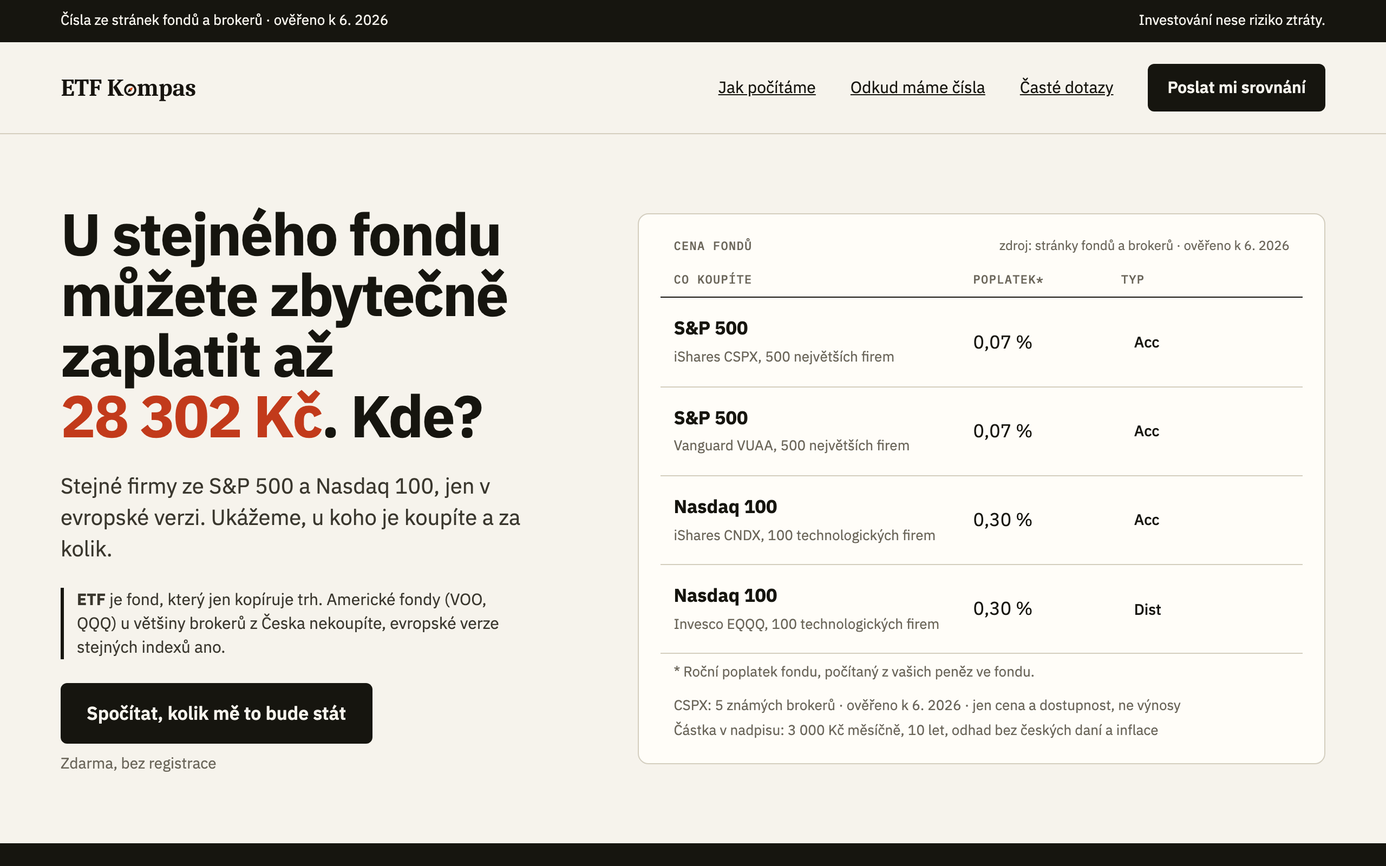
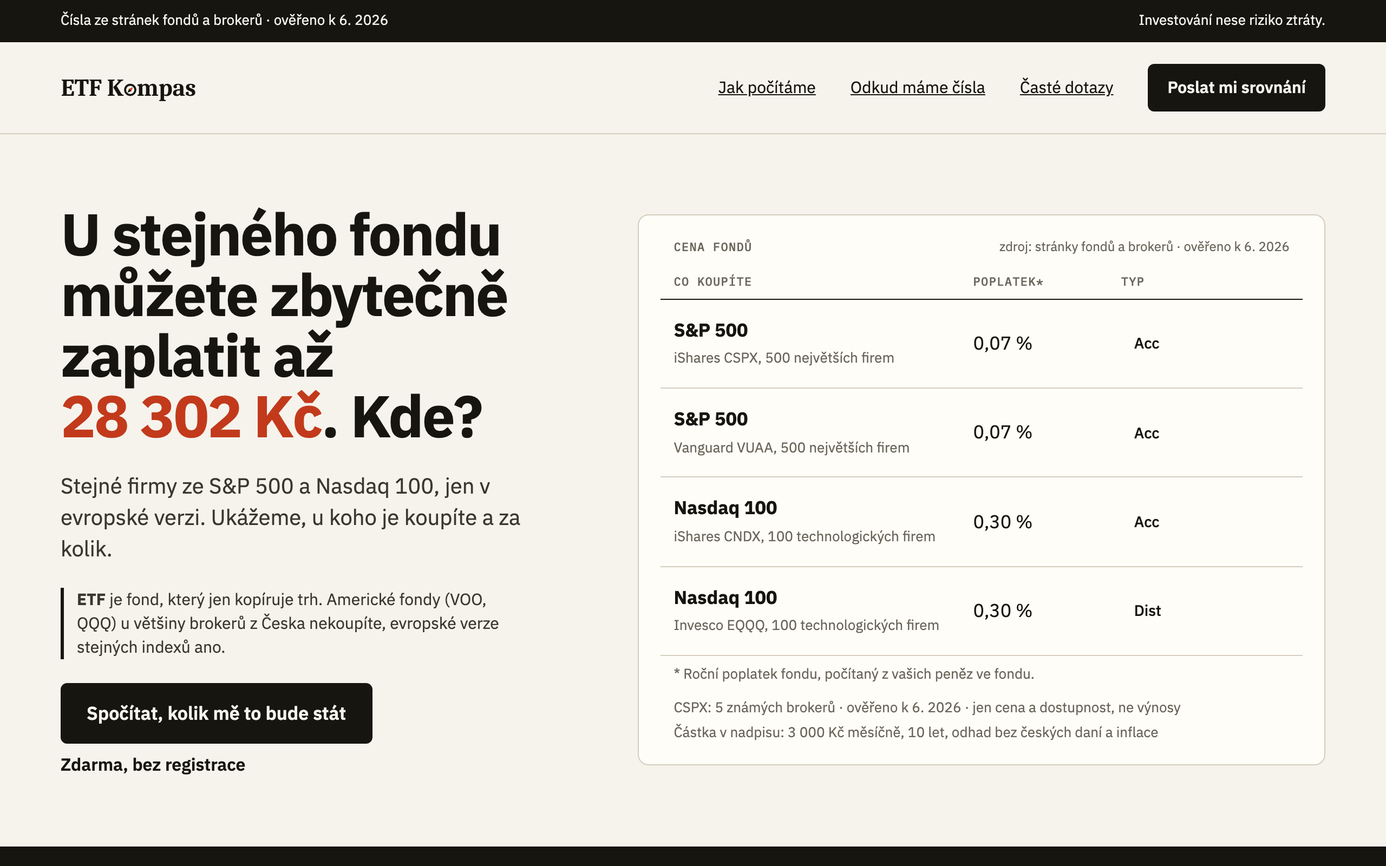
feat: make "Zdarma, bez registrace" more visible after the 5-second test (#70)
## What
In the reduced 5-second test (one person, David's partner) the line
"Zdarma, bez registrace" under the hero button was not noticed. It is
now 16 px semibold in ink instead of a muted 14 px caption (option B of
the mockup David chose). The boards, four PNGs and `wireframe-b.md` show
the same. Note 0051 is updated, and new note 0052 records the test with
her answers word for word and says plainly that n=1 is a pilot that does
not meet SPEC §22 (2 of 3).

## Checks
Tests first (the e2e test for the line changed from 14 px muted to 16 px
semibold ink). `pnpm check` (524 tests), `pnpm format:check`, 129 e2e.
JS unchanged (147.4 KB). No new colour pair (ink on paper is already
checked).

## Not tested
Whether the new line is noticed. A second round with the new hero is
needed.

🤖 Generated with [Claude Code](https://claude.com/claude-code)

diff --git a/docs/design/wireframes/etf-kompas-board.html b/docs/design/wireframes/etf-kompas-board.html
@@ -103,7 +103,7 @@ a{color:#16150F}
 &lt;h1 style=&quot;font-size:54px;line-height:1.04;letter-spacing:-.025em;font-weight:700&quot;&gt;Americké indexy z Česka: u koho je koupíte a za kolik?&lt;/h1&gt;
 &lt;p style=&quot;font-size:20px;color:#3A372E&quot;&gt;Stejné firmy ze S&amp;amp;P 500 a Nasdaq 100, jen v evropské verzi. Ukážeme, u koho je koupíte a za kolik.&lt;/p&gt;
 &lt;p style=&quot;font-size:15px;color:#3A372E;border-left:3px solid #16150F;padding-left:12px;max-width:28em&quot;&gt;&lt;strong&gt;ETF&lt;/strong&gt; je fond, který jen kopíruje trh. Americké fondy (VOO, QQQ) u většiny brokerů z Česka nekoupíte, evropské verze stejných indexů ano.&lt;/p&gt;
-&lt;div style=&quot;display:flex;flex-direction:column;gap:8px;align-items:flex-start&quot;&gt;&lt;a class=&quot;btn&quot; href=&quot;#calc&quot;&gt;Spočítat, kolik mě to bude stát&lt;/a&gt;&lt;p style=&quot;font-size:14px;color:#6B665A&quot;&gt;Zdarma, bez registrace&lt;/p&gt;&lt;/div&gt;
+&lt;div style=&quot;display:flex;flex-direction:column;gap:8px;align-items:flex-start&quot;&gt;&lt;a class=&quot;btn&quot; href=&quot;#calc&quot;&gt;Spočítat, kolik mě to bude stát&lt;/a&gt;&lt;p style=&quot;font-size:16px;font-weight:600;color:#16150F&quot;&gt;Zdarma, bez registrace&lt;/p&gt;&lt;/div&gt;
 &lt;/div&gt;
 &lt;div class=&quot;card hc&quot; style=&quot;padding:16px 20px&quot;&gt;
 &lt;div style=&quot;display:flex;justify-content:space-between;align-items:baseline;padding:4px 12px 8px&quot;&gt;&lt;span class=&quot;tag&quot;&gt;Cena fondů&lt;/span&gt;&lt;span style=&quot;font-size:12px;color:#6B665A&quot;&gt;zdroj: stránky fondů a brokerů · ověřeno k 6. 2026&lt;/span&gt;&lt;/div&gt;
@@ -248,7 +248,7 @@ a{color:#16150F}
 &lt;div class=&quot;row&quot;&gt;&lt;span&gt;&lt;strong&gt;S&amp;amp;P 500&lt;/strong&gt;&lt;br&gt;&lt;span style=&quot;font-size:12px;color:#6B665A&quot;&gt;iShares CSPX, 500 největších firem&lt;/span&gt;&lt;/span&gt;&lt;span class=&quot;num&quot;&gt;0,07 %&lt;/span&gt;&lt;span class=&quot;pill&quot;&gt;Acc&lt;/span&gt;&lt;/div&gt;&lt;div class=&quot;row&quot;&gt;&lt;span&gt;&lt;strong&gt;S&amp;amp;P 500&lt;/strong&gt;&lt;br&gt;&lt;span style=&quot;font-size:12px;color:#6B665A&quot;&gt;Vanguard VUAA, 500 největších firem&lt;/span&gt;&lt;/span&gt;&lt;span class=&quot;num&quot;&gt;0,07 %&lt;/span&gt;&lt;span class=&quot;pill&quot;&gt;Acc&lt;/span&gt;&lt;/div&gt;&lt;div class=&quot;row&quot;&gt;&lt;span&gt;&lt;strong&gt;Nasdaq 100&lt;/strong&gt;&lt;br&gt;&lt;span style=&quot;font-size:12px;color:#6B665A&quot;&gt;iShares CNDX, 100 technologických firem&lt;/span&gt;&lt;/span&gt;&lt;span class=&quot;num&quot;&gt;0,30 %&lt;/span&gt;&lt;span class=&quot;pill&quot;&gt;Acc&lt;/span&gt;&lt;/div&gt;&lt;div class=&quot;row&quot;&gt;&lt;span&gt;&lt;strong&gt;Nasdaq 100&lt;/strong&gt;&lt;br&gt;&lt;span style=&quot;font-size:12px;color:#6B665A&quot;&gt;Invesco EQQQ, 100 technologických firem&lt;/span&gt;&lt;/span&gt;&lt;span class=&quot;num&quot;&gt;0,30 %&lt;/span&gt;&lt;span class=&quot;pill&quot;&gt;Dist&lt;/span&gt;&lt;/div&gt;
 &lt;/div&gt;
 &lt;p style=&quot;font-size:12px;color:#6B665A&quot;&gt;* Roční poplatek fondu, počítaný z vašich peněz ve fondu.&lt;/p&gt;
-&lt;a class=&quot;btn&quot; href=&quot;#calc&quot;&gt;Spočítat, kolik mě to bude stát&lt;/a&gt;&lt;p style=&quot;font-size:14px;color:#6B665A;text-align:center;margin-top:-6px&quot;&gt;Zdarma, bez registrace&lt;/p&gt;
+&lt;a class=&quot;btn&quot; href=&quot;#calc&quot;&gt;Spočítat, kolik mě to bude stát&lt;/a&gt;&lt;p style=&quot;font-size:16px;font-weight:600;color:#16150F;text-align:center;margin-top:-6px&quot;&gt;Zdarma, bez registrace&lt;/p&gt;
 &lt;p style=&quot;font-size:12px;color:#6B665A&quot;&gt;CSPX: 5 známých brokerů · ověřeno k 6. 2026&lt;/p&gt;
 &lt;/section&gt;
 
@@ -1640,7 +1640,7 @@ a{color:#16150F}
 &lt;h1 style=&quot;font-size:54px;line-height:1.04;letter-spacing:-.025em;font-weight:700&quot;&gt;U stejného fondu můžete zbytečně zaplatit až &lt;span style=&quot;color:#C23A1B&quot;&gt;28 302 Kč&lt;/span&gt;. Kde?&lt;/h1&gt;
 &lt;p style=&quot;font-size:20px;color:#3A372E&quot;&gt;Stejné firmy ze S&amp;amp;P 500 a Nasdaq 100, jen v evropské verzi. Ukážeme, u koho je koupíte a za kolik.&lt;/p&gt;
 &lt;p style=&quot;font-size:15px;color:#3A372E;border-left:3px solid #16150F;padding-left:12px;max-width:28em&quot;&gt;&lt;strong&gt;ETF&lt;/strong&gt; je fond, který jen kopíruje trh. Americké fondy (VOO, QQQ) u většiny brokerů z Česka nekoupíte, evropské verze stejných indexů ano.&lt;/p&gt;
-&lt;div style=&quot;display:flex;flex-direction:column;gap:8px;align-items:flex-start&quot;&gt;&lt;a class=&quot;btn&quot; href=&quot;#calc&quot;&gt;Spočítat, kolik mě to bude stát&lt;/a&gt;&lt;p style=&quot;font-size:14px;color:#6B665A&quot;&gt;Zdarma, bez registrace&lt;/p&gt;&lt;/div&gt;
+&lt;div style=&quot;display:flex;flex-direction:column;gap:8px;align-items:flex-start&quot;&gt;&lt;a class=&quot;btn&quot; href=&quot;#calc&quot;&gt;Spočítat, kolik mě to bude stát&lt;/a&gt;&lt;p style=&quot;font-size:16px;font-weight:600;color:#16150F&quot;&gt;Zdarma, bez registrace&lt;/p&gt;&lt;/div&gt;
 &lt;/div&gt;
 &lt;div class=&quot;card hc&quot; style=&quot;padding:16px 20px&quot;&gt;
 &lt;div style=&quot;display:flex;justify-content:space-between;align-items:baseline;padding:4px 12px 8px&quot;&gt;&lt;span class=&quot;tag&quot;&gt;Cena fondů&lt;/span&gt;&lt;span style=&quot;font-size:12px;color:#6B665A&quot;&gt;zdroj: stránky fondů a brokerů · ověřeno k 6. 2026&lt;/span&gt;&lt;/div&gt;
@@ -1785,7 +1785,7 @@ a{color:#16150F}
 &lt;div class=&quot;row&quot;&gt;&lt;span&gt;&lt;strong&gt;S&amp;amp;P 500&lt;/strong&gt;&lt;br&gt;&lt;span style=&quot;font-size:12px;color:#6B665A&quot;&gt;iShares CSPX, 500 největších firem&lt;/span&gt;&lt;/span&gt;&lt;span class=&quot;num&quot;&gt;0,07 %&lt;/span&gt;&lt;span class=&quot;pill&quot;&gt;Acc&lt;/span&gt;&lt;/div&gt;&lt;div class=&quot;row&quot;&gt;&lt;span&gt;&lt;strong&gt;S&amp;amp;P 500&lt;/strong&gt;&lt;br&gt;&lt;span style=&quot;font-size:12px;color:#6B665A&quot;&gt;Vanguard VUAA, 500 největších firem&lt;/span&gt;&lt;/span&gt;&lt;span class=&quot;num&quot;&gt;0,07 %&lt;/span&gt;&lt;span class=&quot;pill&quot;&gt;Acc&lt;/span&gt;&lt;/div&gt;&lt;div class=&quot;row&quot;&gt;&lt;span&gt;&lt;strong&gt;Nasdaq 100&lt;/strong&gt;&lt;br&gt;&lt;span style=&quot;font-size:12px;color:#6B665A&quot;&gt;iShares CNDX, 100 technologických firem&lt;/span&gt;&lt;/span&gt;&lt;span class=&quot;num&quot;&gt;0,30 %&lt;/span&gt;&lt;span class=&quot;pill&quot;&gt;Acc&lt;/span&gt;&lt;/div&gt;&lt;div class=&quot;row&quot;&gt;&lt;span&gt;&lt;strong&gt;Nasdaq 100&lt;/strong&gt;&lt;br&gt;&lt;span style=&quot;font-size:12px;color:#6B665A&quot;&gt;Invesco EQQQ, 100 technologických firem&lt;/span&gt;&lt;/span&gt;&lt;span class=&quot;num&quot;&gt;0,30 %&lt;/span&gt;&lt;span class=&quot;pill&quot;&gt;Dist&lt;/span&gt;&lt;/div&gt;
 &lt;/div&gt;
 &lt;p style=&quot;font-size:12px;color:#6B665A&quot;&gt;* Roční poplatek fondu, počítaný z vašich peněz ve fondu.&lt;/p&gt;
-&lt;a class=&quot;btn&quot; href=&quot;#calc&quot;&gt;Spočítat, kolik mě to bude stát&lt;/a&gt;&lt;p style=&quot;font-size:14px;color:#6B665A;text-align:center;margin-top:-6px&quot;&gt;Zdarma, bez registrace&lt;/p&gt;
+&lt;a class=&quot;btn&quot; href=&quot;#calc&quot;&gt;Spočítat, kolik mě to bude stát&lt;/a&gt;&lt;p style=&quot;font-size:16px;font-weight:600;color:#16150F;text-align:center;margin-top:-6px&quot;&gt;Zdarma, bez registrace&lt;/p&gt;
 &lt;p style=&quot;font-size:12px;color:#6B665A&quot;&gt;CSPX: 5 známých brokerů · ověřeno k 6. 2026&lt;/p&gt;
 &lt;/section&gt;
 

diff --git a/docs/design/wireframes/etf-kompas-design-study.html b/docs/design/wireframes/etf-kompas-design-study.html
@@ -234,7 +234,7 @@ a{color:#16150F}
 &lt;h1 style=&quot;font-size:54px;line-height:1.04;letter-spacing:-.025em;font-weight:700&quot;&gt;Americké indexy z Česka: u koho je koupíte a za kolik?&lt;/h1&gt;
 &lt;p style=&quot;font-size:20px;color:#3A372E&quot;&gt;Stejné firmy ze S&amp;amp;P 500 a Nasdaq 100, jen v evropské verzi. Ukážeme, u koho je koupíte a za kolik.&lt;/p&gt;
 &lt;p style=&quot;font-size:15px;color:#3A372E;border-left:3px solid #16150F;padding-left:12px;max-width:28em&quot;&gt;&lt;strong&gt;ETF&lt;/strong&gt; je fond, který jen kopíruje trh. Americké fondy (VOO, QQQ) u většiny brokerů z Česka nekoupíte, evropské verze stejných indexů ano.&lt;/p&gt;
-&lt;div style=&quot;display:flex;flex-direction:column;gap:8px;align-items:flex-start&quot;&gt;&lt;a class=&quot;btn&quot; href=&quot;#calc&quot;&gt;Spočítat, kolik mě to bude stát&lt;/a&gt;&lt;p style=&quot;font-size:14px;color:#6B665A&quot;&gt;Zdarma, bez registrace&lt;/p&gt;&lt;/div&gt;
+&lt;div style=&quot;display:flex;flex-direction:column;gap:8px;align-items:flex-start&quot;&gt;&lt;a class=&quot;btn&quot; href=&quot;#calc&quot;&gt;Spočítat, kolik mě to bude stát&lt;/a&gt;&lt;p style=&quot;font-size:16px;font-weight:600;color:#16150F&quot;&gt;Zdarma, bez registrace&lt;/p&gt;&lt;/div&gt;
 &lt;/div&gt;
 &lt;div class=&quot;card hc&quot; style=&quot;padding:16px 20px&quot;&gt;
 &lt;div style=&quot;display:flex;justify-content:space-between;align-items:baseline;padding:4px 12px 8px&quot;&gt;&lt;span class=&quot;tag&quot;&gt;Cena fondů&lt;/span&gt;&lt;span style=&quot;font-size:12px;color:#6B665A&quot;&gt;zdroj: stránky fondů a brokerů · ověřeno k 6. 2026&lt;/span&gt;&lt;/div&gt;
@@ -379,7 +379,7 @@ a{color:#16150F}
 &lt;div class=&quot;row&quot;&gt;&lt;span&gt;&lt;strong&gt;S&amp;amp;P 500&lt;/strong&gt;&lt;br&gt;&lt;span style=&quot;font-size:12px;color:#6B665A&quot;&gt;iShares CSPX, 500 největších firem&lt;/span&gt;&lt;/span&gt;&lt;span class=&quot;num&quot;&gt;0,07 %&lt;/span&gt;&lt;span class=&quot;pill&quot;&gt;Acc&lt;/span&gt;&lt;/div&gt;&lt;div class=&quot;row&quot;&gt;&lt;span&gt;&lt;strong&gt;S&amp;amp;P 500&lt;/strong&gt;&lt;br&gt;&lt;span style=&quot;font-size:12px;color:#6B665A&quot;&gt;Vanguard VUAA, 500 největších firem&lt;/span&gt;&lt;/span&gt;&lt;span class=&quot;num&quot;&gt;0,07 %&lt;/span&gt;&lt;span class=&quot;pill&quot;&gt;Acc&lt;/span&gt;&lt;/div&gt;&lt;div class=&quot;row&quot;&gt;&lt;span&gt;&lt;strong&gt;Nasdaq 100&lt;/strong&gt;&lt;br&gt;&lt;span style=&quot;font-size:12px;color:#6B665A&quot;&gt;iShares CNDX, 100 technologických firem&lt;/span&gt;&lt;/span&gt;&lt;span class=&quot;num&quot;&gt;0,30 %&lt;/span&gt;&lt;span class=&quot;pill&quot;&gt;Acc&lt;/span&gt;&lt;/div&gt;&lt;div class=&quot;row&quot;&gt;&lt;span&gt;&lt;strong&gt;Nasdaq 100&lt;/strong&gt;&lt;br&gt;&lt;span style=&quot;font-size:12px;color:#6B665A&quot;&gt;Invesco EQQQ, 100 technologických firem&lt;/span&gt;&lt;/span&gt;&lt;span class=&quot;num&quot;&gt;0,30 %&lt;/span&gt;&lt;span class=&quot;pill&quot;&gt;Dist&lt;/span&gt;&lt;/div&gt;
 &lt;/div&gt;
 &lt;p style=&quot;font-size:12px;color:#6B665A&quot;&gt;* Roční poplatek fondu, počítaný z vašich peněz ve fondu.&lt;/p&gt;
-&lt;a class=&quot;btn&quot; href=&quot;#calc&quot;&gt;Spočítat, kolik mě to bude stát&lt;/a&gt;&lt;p style=&quot;font-size:14px;color:#6B665A;text-align:center;margin-top:-6px&quot;&gt;Zdarma, bez registrace&lt;/p&gt;
+&lt;a class=&quot;btn&quot; href=&quot;#calc&quot;&gt;Spočítat, kolik mě to bude stát&lt;/a&gt;&lt;p style=&quot;font-size:16px;font-weight:600;color:#16150F;text-align:center;margin-top:-6px&quot;&gt;Zdarma, bez registrace&lt;/p&gt;
 &lt;p style=&quot;font-size:12px;color:#6B665A&quot;&gt;CSPX: 5 známých brokerů · ověřeno k 6. 2026&lt;/p&gt;
 &lt;/section&gt;
 
@@ -524,7 +524,7 @@ a{color:#16150F}
 &lt;h1 style=&quot;font-size:54px;line-height:1.04;letter-spacing:-.025em;font-weight:700&quot;&gt;U stejného fondu můžete zbytečně zaplatit až &lt;span style=&quot;color:#C23A1B&quot;&gt;28 302 Kč&lt;/span&gt;. Kde?&lt;/h1&gt;
 &lt;p style=&quot;font-size:20px;color:#3A372E&quot;&gt;Stejné firmy ze S&amp;amp;P 500 a Nasdaq 100, jen v evropské verzi. Ukážeme, u koho je koupíte a za kolik.&lt;/p&gt;
 &lt;p style=&quot;font-size:15px;color:#3A372E;border-left:3px solid #16150F;padding-left:12px;max-width:28em&quot;&gt;&lt;strong&gt;ETF&lt;/strong&gt; je fond, který jen kopíruje trh. Americké fondy (VOO, QQQ) u většiny brokerů z Česka nekoupíte, evropské verze stejných indexů ano.&lt;/p&gt;
-&lt;div style=&quot;display:flex;flex-direction:column;gap:8px;align-items:flex-start&quot;&gt;&lt;a class=&quot;btn&quot; href=&quot;#calc&quot;&gt;Spočítat, kolik mě to bude stát&lt;/a&gt;&lt;p style=&quot;font-size:14px;color:#6B665A&quot;&gt;Zdarma, bez registrace&lt;/p&gt;&lt;/div&gt;
+&lt;div style=&quot;display:flex;flex-direction:column;gap:8px;align-items:flex-start&quot;&gt;&lt;a class=&quot;btn&quot; href=&quot;#calc&quot;&gt;Spočítat, kolik mě to bude stát&lt;/a&gt;&lt;p style=&quot;font-size:16px;font-weight:600;color:#16150F&quot;&gt;Zdarma, bez registrace&lt;/p&gt;&lt;/div&gt;
 &lt;/div&gt;
 &lt;div class=&quot;card hc&quot; style=&quot;padding:16px 20px&quot;&gt;
 &lt;div style=&quot;display:flex;justify-content:space-between;align-items:baseline;padding:4px 12px 8px&quot;&gt;&lt;span class=&quot;tag&quot;&gt;Cena fondů&lt;/span&gt;&lt;span style=&quot;font-size:12px;color:#6B665A&quot;&gt;zdroj: stránky fondů a brokerů · ověřeno k 6. 2026&lt;/span&gt;&lt;/div&gt;
@@ -669,7 +669,7 @@ a{color:#16150F}
 &lt;div class=&quot;row&quot;&gt;&lt;span&gt;&lt;strong&gt;S&amp;amp;P 500&lt;/strong&gt;&lt;br&gt;&lt;span style=&quot;font-size:12px;color:#6B665A&quot;&gt;iShares CSPX, 500 největších firem&lt;/span&gt;&lt;/span&gt;&lt;span class=&quot;num&quot;&gt;0,07 %&lt;/span&gt;&lt;span class=&quot;pill&quot;&gt;Acc&lt;/span&gt;&lt;/div&gt;&lt;div class=&quot;row&quot;&gt;&lt;span&gt;&lt;strong&gt;S&amp;amp;P 500&lt;/strong&gt;&lt;br&gt;&lt;span style=&quot;font-size:12px;color:#6B665A&quot;&gt;Vanguard VUAA, 500 největších firem&lt;/span&gt;&lt;/span&gt;&lt;span class=&quot;num&quot;&gt;0,07 %&lt;/span&gt;&lt;span class=&quot;pill&quot;&gt;Acc&lt;/span&gt;&lt;/div&gt;&lt;div class=&quot;row&quot;&gt;&lt;span&gt;&lt;strong&gt;Nasdaq 100&lt;/strong&gt;&lt;br&gt;&lt;span style=&quot;font-size:12px;color:#6B665A&quot;&gt;iShares CNDX, 100 technologických firem&lt;/span&gt;&lt;/span&gt;&lt;span class=&quot;num&quot;&gt;0,30 %&lt;/span&gt;&lt;span class=&quot;pill&quot;&gt;Acc&lt;/span&gt;&lt;/div&gt;&lt;div class=&quot;row&quot;&gt;&lt;span&gt;&lt;strong&gt;Nasdaq 100&lt;/strong&gt;&lt;br&gt;&lt;span style=&quot;font-size:12px;color:#6B665A&quot;&gt;Invesco EQQQ, 100 technologických firem&lt;/span&gt;&lt;/span&gt;&lt;span class=&quot;num&quot;&gt;0,30 %&lt;/span&gt;&lt;span class=&quot;pill&quot;&gt;Dist&lt;/span&gt;&lt;/div&gt;
 &lt;/div&gt;
 &lt;p style=&quot;font-size:12px;color:#6B665A&quot;&gt;* Roční poplatek fondu, počítaný z vašich peněz ve fondu.&lt;/p&gt;
-&lt;a class=&quot;btn&quot; href=&quot;#calc&quot;&gt;Spočítat, kolik mě to bude stát&lt;/a&gt;&lt;p style=&quot;font-size:14px;color:#6B665A;text-align:center;margin-top:-6px&quot;&gt;Zdarma, bez registrace&lt;/p&gt;
+&lt;a class=&quot;btn&quot; href=&quot;#calc&quot;&gt;Spočítat, kolik mě to bude stát&lt;/a&gt;&lt;p style=&quot;font-size:16px;font-weight:600;color:#16150F;text-align:center;margin-top:-6px&quot;&gt;Zdarma, bez registrace&lt;/p&gt;
 &lt;p style=&quot;font-size:12px;color:#6B665A&quot;&gt;CSPX: 5 známých brokerů · ověřeno k 6. 2026&lt;/p&gt;
 &lt;/section&gt;
 

diff --git a/docs/design/wireframes/artboards-v4/ad67ec35.html b/docs/design/wireframes/artboards-v4/ad67ec35.html
@@ -343,7 +343,7 @@ a{color:#16150F}
 <div class="row"><span><strong>S&amp;P 500</strong><br><span style="font-size:12px;color:#6B665A">iShares CSPX, 500 největších firem</span></span><span class="num">0,07 %</span><span class="pill">Acc</span></div><div class="row"><span><strong>S&amp;P 500</strong><br><span style="font-size:12px;color:#6B665A">Vanguard VUAA, 500 největších firem</span></span><span class="num">0,07 %</span><span class="pill">Acc</span></div><div class="row"><span><strong>Nasdaq 100</strong><br><span style="font-size:12px;color:#6B665A">iShares CNDX, 100 technologických firem</span></span><span class="num">0,30 %</span><span class="pill">Acc</span></div><div class="row"><span><strong>Nasdaq 100</strong><br><span style="font-size:12px;color:#6B665A">Invesco EQQQ, 100 technologických firem</span></span><span class="num">0,30 %</span><span class="pill">Dist</span></div>
 </div>
 <p style="font-size:12px;color:#6B665A">* Roční poplatek fondu, počítaný z vašich peněz ve fondu.</p>
-<a class="btn" href="#calc">Spočítat, kolik mě to bude stát</a><p style="font-size:14px;color:#6B665A;text-align:center;margin-top:-6px">Zdarma, bez registrace</p>
+<a class="btn" href="#calc">Spočítat, kolik mě to bude stát</a><p style="font-size:16px;font-weight:600;color:#16150F;text-align:center;margin-top:-6px">Zdarma, bez registrace</p>
 <p style="font-size:12px;color:#6B665A">CSPX: 5 známých brokerů · ověřeno k 6. 2026</p>
 </section>
 

diff --git a/docs/design/wireframes/artboards-v4/vb02hero-m.html b/docs/design/wireframes/artboards-v4/vb02hero-m.html
@@ -343,7 +343,7 @@ a{color:#16150F}
 <div class="row"><span><strong>S&amp;P 500</strong><br><span style="font-size:12px;color:#6B665A">iShares CSPX, 500 největších firem</span></span><span class="num">0,07 %</span><span class="pill">Acc</span></div><div class="row"><span><strong>S&amp;P 500</strong><br><span style="font-size:12px;color:#6B665A">Vanguard VUAA, 500 největších firem</span></span><span class="num">0,07 %</span><span class="pill">Acc</span></div><div class="row"><span><strong>Nasdaq 100</strong><br><span style="font-size:12px;color:#6B665A">iShares CNDX, 100 technologických firem</span></span><span class="num">0,30 %</span><span class="pill">Acc</span></div><div class="row"><span><strong>Nasdaq 100</strong><br><span style="font-size:12px;color:#6B665A">Invesco EQQQ, 100 technologických firem</span></span><span class="num">0,30 %</span><span class="pill">Dist</span></div>
 </div>
 <p style="font-size:12px;color:#6B665A">* Roční poplatek fondu, počítaný z vašich peněz ve fondu.</p>
-<a class="btn" href="#calc">Spočítat, kolik mě to bude stát</a><p style="font-size:14px;color:#6B665A;text-align:center;margin-top:-6px">Zdarma, bez registrace</p>
+<a class="btn" href="#calc">Spočítat, kolik mě to bude stát</a><p style="font-size:16px;font-weight:600;color:#16150F;text-align:center;margin-top:-6px">Zdarma, bez registrace</p>
 <p style="font-size:12px;color:#6B665A">CSPX: 5 známých brokerů · ověřeno k 6. 2026</p>
 </section>
 

diff --git a/docs/design/wireframes/artboards-v4/vb01hero-d.html b/docs/design/wireframes/artboards-v4/vb01hero-d.html
@@ -350,7 +350,7 @@ a{color:#16150F}
 <h1 style="font-size:54px;line-height:1.04;letter-spacing:-.025em;font-weight:700">U stejného fondu můžete zbytečně zaplatit až <span style="color:#C23A1B">28 302 Kč</span>. Kde?</h1>
 <p style="font-size:20px;color:#3A372E">Stejné firmy ze S&amp;P 500 a Nasdaq 100, jen v evropské verzi. Ukážeme, u koho je koupíte a za kolik.</p>
 <p style="font-size:15px;color:#3A372E;border-left:3px solid #16150F;padding-left:12px;max-width:28em"><strong>ETF</strong> je fond, který jen kopíruje trh. Americké fondy (VOO, QQQ) u většiny brokerů z Česka nekoupíte, evropské verze stejných indexů ano.</p>
-<div style="display:flex;flex-direction:column;gap:8px;align-items:flex-start"><a class="btn" href="#calc">Spočítat, kolik mě to bude stát</a><p style="font-size:14px;color:#6B665A">Zdarma, bez registrace</p></div>
+<div style="display:flex;flex-direction:column;gap:8px;align-items:flex-start"><a class="btn" href="#calc">Spočítat, kolik mě to bude stát</a><p style="font-size:16px;font-weight:600;color:#16150F">Zdarma, bez registrace</p></div>
 </div>
 <div class="card hc" style="padding:16px 20px">
 <div style="display:flex;justify-content:space-between;align-items:baseline;padding:4px 12px 8px"><span class="tag">Cena fondů</span><span style="font-size:12px;color:#6B665A">zdroj: stránky fondů a brokerů · ověřeno k 6. 2026</span></div>

diff --git a/docs/design/wireframes/artboards-v4/a8f21cef.html b/docs/design/wireframes/artboards-v4/a8f21cef.html
@@ -350,7 +350,7 @@ a{color:#16150F}
 <h1 style="font-size:54px;line-height:1.04;letter-spacing:-.025em;font-weight:700">Americké indexy z Česka: u koho je koupíte a za kolik?</h1>
 <p style="font-size:20px;color:#3A372E">Stejné firmy ze S&amp;P 500 a Nasdaq 100, jen v evropské verzi. Ukážeme, u koho je koupíte a za kolik.</p>
 <p style="font-size:15px;color:#3A372E;border-left:3px solid #16150F;padding-left:12px;max-width:28em"><strong>ETF</strong> je fond, který jen kopíruje trh. Americké fondy (VOO, QQQ) u většiny brokerů z Česka nekoupíte, evropské verze stejných indexů ano.</p>
-<div style="display:flex;flex-direction:column;gap:8px;align-items:flex-start"><a class="btn" href="#calc">Spočítat, kolik mě to bude stát</a><p style="font-size:14px;color:#6B665A">Zdarma, bez registrace</p></div>
+<div style="display:flex;flex-direction:column;gap:8px;align-items:flex-start"><a class="btn" href="#calc">Spočítat, kolik mě to bude stát</a><p style="font-size:16px;font-weight:600;color:#16150F">Zdarma, bez registrace</p></div>
 </div>
 <div class="card hc" style="padding:16px 20px">
 <div style="display:flex;justify-content:space-between;align-items:baseline;padding:4px 12px 8px"><span class="tag">Cena fondů</span><span style="font-size:12px;color:#6B665A">zdroj: stránky fondů a brokerů · ověřeno k 6. 2026</span></div>

diff --git a/e2e/design-rev6.spec.ts b/e2e/design-rev6.spec.ts
@@ -75,15 +75,17 @@ test.describe('saving box button', () => {
 })
 
 test.describe('"Zdarma, bez registrace" under the hero button', () => {
-  test('is muted text, centred under the button on a phone and left-aligned on desktop @smoke', async ({
+  test('is dark, semibold 16 px text, centred under the button on a phone and left-aligned on desktop @smoke', async ({
     page,
     isMobile,
   }) => {
     await page.goto('/')
     const line = page.getByText('Zdarma, bez registrace')
     await expect(line).toBeVisible()
-    await expect(line).toHaveCSS('color', 'rgb(107, 102, 90)')
-    await expect(line).toHaveCSS('font-size', '14px')
+    // as visible as the offer next to the button, not a caption (5-second test, 2026-10-13)
+    await expect(line).toHaveCSS('color', 'rgb(22, 21, 15)')
+    await expect(line).toHaveCSS('font-size', '16px')
+    await expect(line).toHaveCSS('font-weight', '600')
     await expect(line).toHaveCSS('text-align', isMobile ? 'center' : 'start')
   })
 })

diff --git a/src/components/HeroB/HeroB.module.scss b/src/components/HeroB/HeroB.module.scss
@@ -56,8 +56,10 @@
 
 .ctaNote {
   margin: var(--space-2) 0 0;
-  color: var(--color-muted);
-  font-size: var(--font-size-sm);
+  // as visible as the offer next to the button, not a caption (5-second test, note 0051)
+  color: var(--color-ink);
+  font-size: var(--font-size-base);
+  font-weight: var(--font-weight-semibold);
   text-align: center;
 
   @include from('md') {

diff --git a/docs/design/wireframes/apply_rev6.py b/docs/design/wireframes/apply_rev6.py
@@ -137,10 +137,10 @@ def landing(f, mobile, variant_b):
     # "Zdarma, bez registrace" under the hero button (2026-10-13, option A), the same text as the built page
     btn = '<a class="btn" href="#calc">Spočítat, kolik mě to bude stát</a>'
     if mobile:
-        s = one(s, btn, btn + '<p style="font-size:14px;color:#6B665A;text-align:center;margin-top:-6px">Zdarma, bez registrace</p>')
+        s = one(s, btn, btn + '<p style="font-size:16px;font-weight:600;color:#16150F;text-align:center;margin-top:-6px">Zdarma, bez registrace</p>')
     else:
         old = '<div style="display:flex;gap:16px;align-items:center;flex-wrap:wrap">' + btn + '</div>'
-        s = one(s, old, '<div style="display:flex;flex-direction:column;gap:8px;align-items:flex-start">' + btn + '<p style="font-size:14px;color:#6B665A">Zdarma, bez registrace</p></div>')
+        s = one(s, old, '<div style="display:flex;flex-direction:column;gap:8px;align-items:flex-start">' + btn + '<p style="font-size:16px;font-weight:600;color:#16150F">Zdarma, bez registrace</p></div>')
     write(f, dates(s))
     print('ok', f)
 

diff --git a/docs/decisions/0052-five-second-test-one-person.md b/docs/decisions/0052-five-second-test-one-person.md
@@ -1,0 +1,32 @@
+# 0052. The 5-second test, reduced to one person
+
+Date: 2026-10-13
+Status: accepted
+Phase: 3
+
+## Context
+
+SPEC §22 (Phase 3) asks for three people who do not invest: each sees only the hero for 5 seconds, and at least two must say what they get and that it costs nothing. David ran a reduced version with one person, because this is a test project and nobody else was at home. The person is David's partner, who does not invest and is not a developer; she is not named here. She saw two images of the real hero (375 x 667): variant a, then variant b.
+
+## Decision
+
+The result, in her words (Czech):
+
+- What was the page about? "Srovnávač fondů"
+- What would you get there? "Porovnání fondů, jejich poplatků a asi kde je koupím"
+- What would it cost you? "To nevím, to jsem si nevšimla"
+- (after variant b) Does this change what you think the page is about? "Jo, americké indexy z Česka na mě působí trochu ploše, zmínka o ceně mě zaujala víc"
+- What stood out? "Rozhodně ta cena"
+
+What she gets was understood, unprompted. That it is free was not: the line "Zdarma, bez registrace" under the button, then a muted 14 px caption, went unnoticed. So the test is not passed for the "free" half, and with one person it cannot meet the criterion of two of three in any case; it is a pilot. David concluded that the line should be more visible, and chose option B from a mockup of four (the current line, a darker one, black 16 px semibold, green with a check mark): ink colour, 16 px, semibold. Reason (David): the test showed it should be more visible, so a darker colour.
+
+## Alternatives considered
+
+- A darker colour at the same size, and a green line with a check mark: shown in the mockup, not chosen; David gave no reason against them.
+- Three people, as SPEC §22 says: not done; David did not have them at hand.
+
+## Consequences
+
+- The "free" message is not shown to be understood yet; the new, bolder line is not tested. A second round with the new hero, ideally with two more people, would close the SPEC criterion.
+- One person who saw variant b said the amount caught her attention more than the neutral headline. That is one anecdote, a faint support for hypothesis 2 of the A/B test (SPEC §11), not a result.
+- She said "Americké indexy z Česka" felt "flat". The wording of variant a stays as it is until the A/B test or more feedback says otherwise.

diff --git a/docs/design/wireframe-b.md b/docs/design/wireframe-b.md
@@ -52,7 +52,7 @@ The order of sections matches SPEC §7. Desktop is 1280 px wide with 56 px gutte
 - h1: "Americké indexy z Česka: u koho je koupíte a za kolik?"
 - Lead: "Stejné firmy ze S&P 500 a Nasdaq 100, jen v evropské verzi. Ukážeme, u koho je koupíte a za kolik." (one line on the phone)
 - Callout with a left rule explaining ETF (the one use of the word).
-- Primary button "Spočítat, kolik mě to bude stát", with the muted line "Zdarma, bez registrace" under it (centred on a phone, left-aligned on desktop; 14 px; decided 2026-10-13 before the 5-second test). The link "nebo rovnou srovnání brokerů" was dropped in rev. 6.
+- Primary button "Spočítat, kolik mě to bude stát", with the muted line "Zdarma, bez registrace" under it (centred on a phone, left-aligned on desktop; 16 px semibold in ink since the 5-second test, where the first version, 14 px in muted grey, was not noticed; note 0051). The link "nebo rovnou srovnání brokerů" was dropped in rev. 6.
 - **Hero table** card with four European twins: Co koupíte, Poplatek*, Typ (Acc / Dist). Rev. 6: a row is titled by the index ("S&P 500", "Nasdaq 100"), with manager, ticker and a plain description under it ("iShares CSPX, 500 největších firem"; note 0043). A footnote explains the asterisk: "* Roční poplatek fondu, počítaný z vašich peněz ve fondu." A fact that is not verified would carry `[ověřit]`; today all four rows are verified (CSPX, VUAA, CNDX, EQQQ). One short line under it: "CSPX: 5 známých brokerů · ověřeno k 6. 2026" (the count comes from the data; Czech plural: 1 známý broker, 2 to 4 známí brokeři, 5 známých brokerů). On wide screens the line goes on with " · jen cena a dostupnost, ne výnosy" and, in variant b, a second line with the setting of the amount. On a phone a note after the ETF callout names the brokers and says the rest: "Brokeři: DEGIRO, Fio e-Broker, Interactive Brokers, Trading 212, XTB. Jen cena a dostupnost, ne výnosy." plus the setting sentence in variant b. The American funds are explained by the callout alone (decided 2026-10-13: the long line was a wall of text). The only asterisk is "Poplatek*".
 - Mobile order: h1, lead, callout, table, button.
 

diff --git a/docs/AI-LOG.md b/docs/AI-LOG.md
@@ -947,3 +947,15 @@ Note 0051 ("Zdarma, bez registrace") was added to PR 67 with David's reason in h
 - **The JS grew by 0.7 KB** (146.7 to 147.4 KB, 150 KB budget): the new strings and the second block of markup. Not reduced; the margin is now 2.6 KB.
 - **Board and built page differ in one detail:** the board's phone line is left-aligned like the built page, but the draft David approved showed it centred. I followed the built footnote above it.
 - **The amount in the headline on the live page is now 28 293 Kč**, not 28 302 Kč (the daily ČNB rate changed); the boards show the amount of 2026-10-12 and the design study says the numbers are from that data.
+
+### 5-second test (one person) and a more visible "Zdarma, bez registrace"
+
+**Prompt (summary):** David ran the reduced 5-second test with one person (his partner, not named) and sent her answers; I read them, showed a mockup of four versions of the line, he chose option B, I wrote the test first and he approved ("approved, implement it").
+
+**Produced:** the line "Zdarma, bez registrace" is now 16 px semibold in ink (it was a muted 14 px caption). Boards, four PNGs and `wireframe-b.md` show the same; note 0051 says so; new note 0052 records the test: what she understood (what she gets), what she did not (that it is free), and that n=1 is a pilot that does not meet SPEC §22 (2 of 3). Tests first (2 e2e failed); 524 unit/component and 129 e2e pass; JS unchanged at 147.4 KB.
+
+**Mistakes and corrections**
+
+- **The line I added a few hours earlier was too quiet, and I did not test that it would be seen.** My own test only checked that it existed, was muted, and fit the screen; the first person who looked did not notice it. I changed that approved test (14 px muted to 16 px semibold ink), which is the point of the test. Lesson: "present and in the right place" is not "noticed"; the 5-second test is where that shows.
+- **I wrote her answers into a note word for word, in Czech, with no name**, as David wished; the note says who she is only as "David's partner, who does not invest".
+- **Not tested:** whether the new line is noticed. The pilot needs a second round with the new hero.
